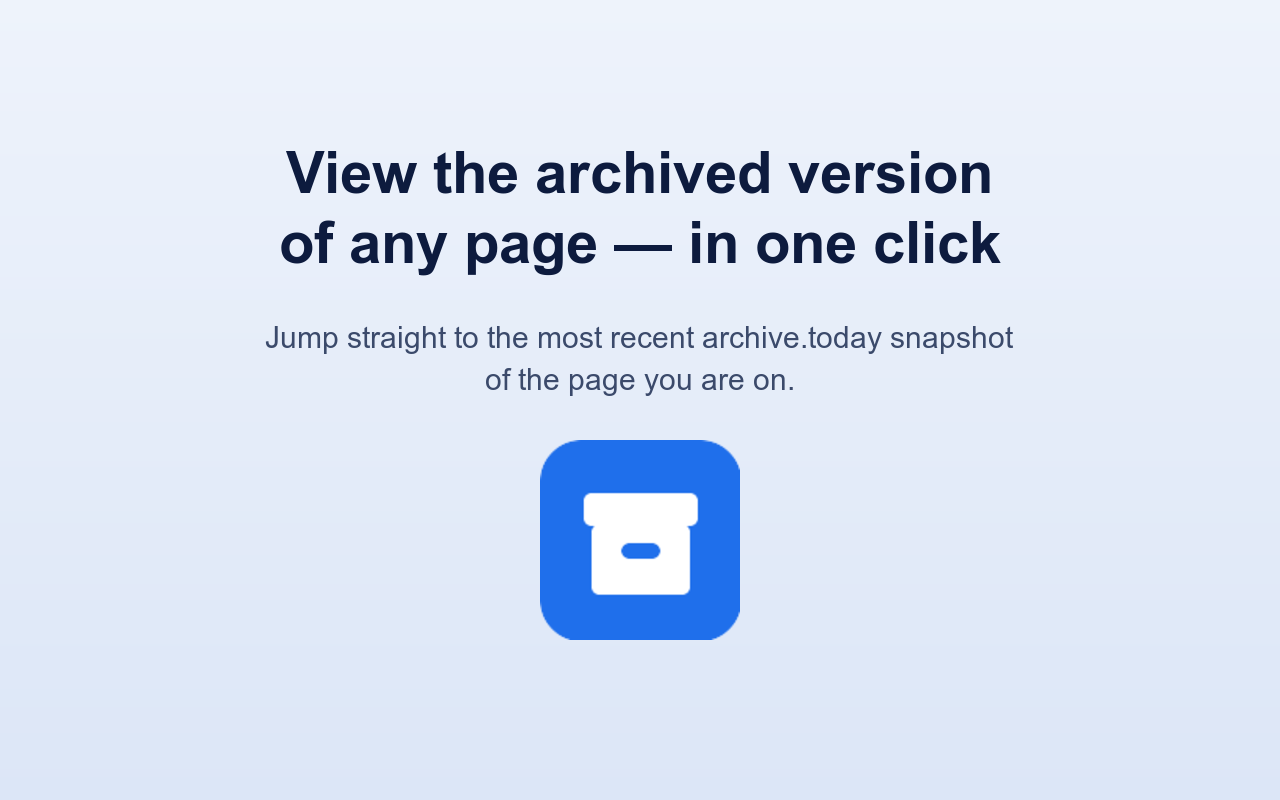
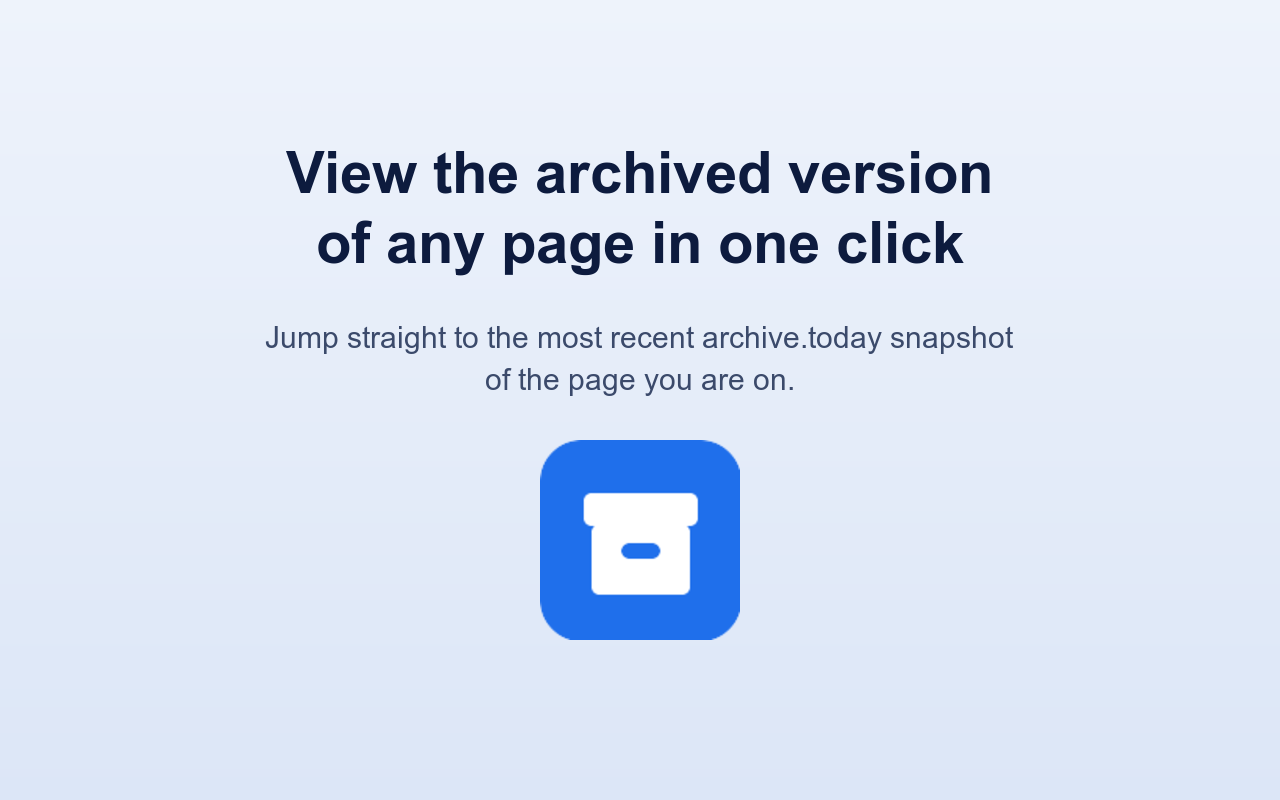
Remove em dashes from copy, screenshot, and comments
Replaces em dashes with colons/semicolons throughout README, PRIVACY,
options title, and code comments, and regenerates the store screenshot without
the em dash in the headline.

Changed region(s): [[0.2188, 0.2812, 0.7812, 0.3438]]

diff --git a/background.js b/background.js
@@ -1,9 +1,9 @@
-// Archive Viewer — jump to the most recent archive.today snapshot of the current page.
+// Archive Viewer: jump to the most recent archive.today snapshot of the current page.
 //
 // archive.today exposes a "newest" endpoint that 302-redirects to the latest
 // snapshot of a given URL (or offers to create one if none exists):
 //   https://archive.ph/newest/https://example.com/article
-// That single URL is all we need — no API key, no scraping.
+// That single URL is all we need: no API key, no scraping.
 
 const DEFAULTS = {
   // archive.today has several interchangeable mirror domains. .ph tends to be
@@ -25,7 +25,7 @@ function isArchivable(url) {
 }
 
 // Strip the query string (and hash) so tracking params like ?utm_source=...
-// don't fragment archive lookups — archive.today keys snapshots by exact URL,
+// don't fragment archive lookups; archive.today keys snapshots by exact URL,
 // and the canonical, param-free URL is far more likely to have a snapshot.
 function stripQuery(pageUrl) {
   try {
@@ -34,7 +34,7 @@ function stripQuery(pageUrl) {
     u.hash = "";
     return u.toString();
   } catch {
-    // Not a parseable URL — fall back to a plain split.
+    // Not a parseable URL, fall back to a plain split.
     return pageUrl.split(/[?#]/)[0];
   }
 }

diff --git a/options.html b/options.html
@@ -2,7 +2,7 @@
 <html lang="en">
   <head>
     <meta charset="utf-8" />
-    <title>Archive Viewer — Options</title>
+    <title>Archive Viewer Options</title>
     <style>
       :root { color-scheme: light dark; }
       body {

diff --git a/PRIVACY.md b/PRIVACY.md
@@ -1,4 +1,4 @@
-# Privacy Policy — Archive Viewer
+# Privacy Policy for Archive Viewer
 
 _Last updated: 2026-06-15_
 
@@ -16,7 +16,7 @@ Archive Viewer does **not** collect, store, transmit, or sell any personal
 information. Specifically:
 
 - It has no analytics, telemetry, or tracking of any kind.
-- It does not send data to any server operated by the developer — there is no
+- It does not send data to any server operated by the developer; there is no
   backend.
 - It does not store your browsing history. The current tab's URL is used only
   at the moment you click the extension, solely to build the archive link, and
@@ -42,10 +42,10 @@ the developer.
 
 ## Permissions
 
-- **activeTab** — read the current tab's URL, only when you invoke the
+- **activeTab**: read the current tab's URL, only when you invoke the
   extension, to build the archive link.
-- **contextMenus** — add a right-click menu item to trigger the same action.
-- **storage** — save your mirror and open-in-tab preferences locally.
+- **contextMenus**: add a right-click menu item to trigger the same action.
+- **storage**: save your mirror and open-in-tab preferences locally.
 
 ## Changes
 

diff --git a/README.md b/README.md
@@ -35,9 +35,9 @@ key, no account, no tracking.
 Right-click the icon → **Options** (or `chrome://extensions` → *Details* →
 *Extension options*):
 
-- **Archive mirror** — switch between interchangeable mirrors (`archive.ph`,
+- **Archive mirror**: switch between interchangeable mirrors (`archive.ph`,
   `archive.today`, `archive.is`, …) if one is blocked or slow.
-- **Open snapshot in** — a new tab (default) or the current tab.
+- **Open snapshot in**: a new tab (default) or the current tab.
 
 ## Files
 
@@ -51,7 +51,7 @@ Right-click the icon → **Options** (or `chrome://extensions` → *Details* →
 ## Disclaimer
 
 This tool is intended for accessing archives of content you're entitled to
-view. It doesn't host, copy, or store any content itself — it simply opens an
+view. It doesn't host, copy, or store any content itself; it simply opens an
 [archive.today](https://archive.today) snapshot URL. Please respect publishers'
 terms of service and applicable copyright law.
 